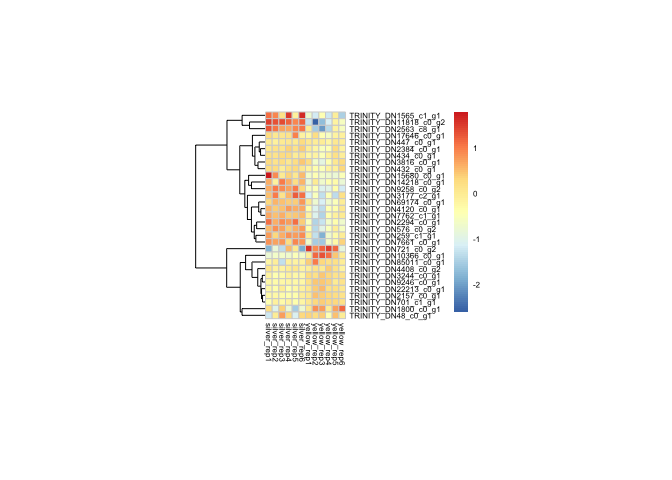
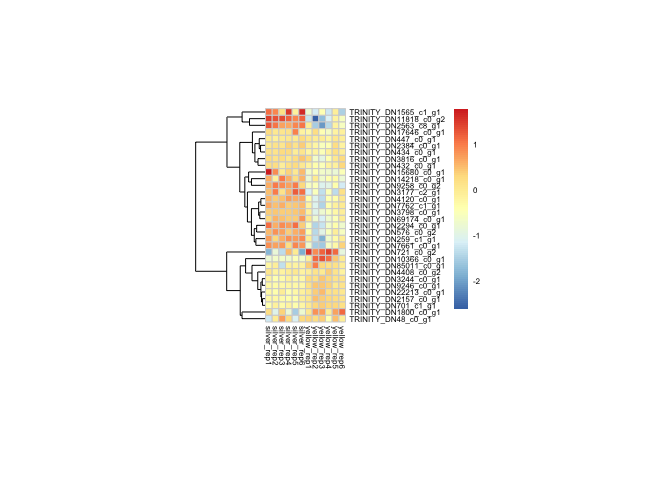
extra numbers for Lucila

Changed region(s): [[0.2812, 0.2188, 0.6875, 0.7812]]

diff --git a/extra_numbers.md b/extra_numbers.md
@@ -24,15 +24,15 @@ length(which(passingfilter%in%annotated))
 
     ## [1] 20810
 
-### Part 2, obtain a heatmap of a specific 31 genes.
+## Part 2: obtain a heatmap of specific 31 genes.
 
-### Heatmaps 31 genes
+### Heatmaps focus genes
 
-Those are the 31
+Those are the focus
 genes
 
 ``` r
-gene_names<-c("TRINITY_DN701_c1_g1","TRINITY_DN2157_c0_g1","TRINITY_DN4120_c0_g1","TRINITY_DN3177_c2_g1","TRINITY_DN11818_c0_g2","TRINITY_DN7661_c0_g1","TRINITY_DN1565_c1_g1","TRINITY_DN7762_c1_g1","TRINITY_DN9258_c0_g2","TRINITY_DN447_c0_g1","TRINITY_DN9246_c0_g1","TRINITY_DN69174_c0_g1","TRINITY_DN3816_c0_g1","TRINITY_DN434_c0_g1","TRINITY_DN14218_c0_g1","TRINITY_DN259_c1_g1","TRINITY_DN2294_c0_g1","TRINITY_DN15680_c0_g1","TRINITY_DN2563_c8_g1","TRINITY_DN576_c0_g2","TRINITY_DN432_c0_g1","TRINITY_DN2384_c0_g1","TRINITY_DN22213_c0_g1","TRINITY_DN721_c0_g2","TRINITY_DN1800_c0_g1","TRINITY_DN3244_c0_g1","TRINITY_DN10366_c0_g1","TRINITY_DN4408_c0_g2","TRINITY_DN85011_c0_g1","TRINITY_DN17646_c0_g1","TRINITY_DN48_c0_g1")
+gene_names<-c("TRINITY_DN701_c1_g1","TRINITY_DN2157_c0_g1","TRINITY_DN4120_c0_g1","TRINITY_DN3177_c2_g1","TRINITY_DN11818_c0_g2","TRINITY_DN7661_c0_g1","TRINITY_DN1565_c1_g1","TRINITY_DN7762_c1_g1","TRINITY_DN9258_c0_g2","TRINITY_DN447_c0_g1","TRINITY_DN9246_c0_g1","TRINITY_DN69174_c0_g1","TRINITY_DN3816_c0_g1","TRINITY_DN434_c0_g1","TRINITY_DN14218_c0_g1","TRINITY_DN259_c1_g1","TRINITY_DN2294_c0_g1","TRINITY_DN15680_c0_g1","TRINITY_DN2563_c8_g1","TRINITY_DN576_c0_g2","TRINITY_DN432_c0_g1","TRINITY_DN2384_c0_g1","TRINITY_DN22213_c0_g1","TRINITY_DN721_c0_g2","TRINITY_DN1800_c0_g1","TRINITY_DN3244_c0_g1","TRINITY_DN10366_c0_g1","TRINITY_DN4408_c0_g2","TRINITY_DN85011_c0_g1","TRINITY_DN17646_c0_g1","TRINITY_DN48_c0_g1","TRINITY_DN3798_c0_g1")
 ```
 
 Run the modelling
@@ -250,7 +250,7 @@ dim(dge)
 logCPM <- cpm(dge, log=TRUE)
 ```
 
-Isolate those 31
+Isolate those focus
 genes:
 
 ``` r
@@ -279,7 +279,7 @@ pheatmap(mat,show_rownames = T,cellwidth=5,cellheight=5,border_color="lightgrey"
 ![](extra_numbers_files/figure-gfm/unnamed-chunk-5-1.png)<!-- -->
 
 ``` r
-pdf("heatmap31genes.pdf")
+pdf("heatmapfocusgenes.pdf")
 pheatmap(mat,show_rownames = T,cellwidth=5,cellheight=5,border_color="lightgrey",cluster_row=T,cluster_col=F,fontsize=6) 
 dev.off()
 ```
